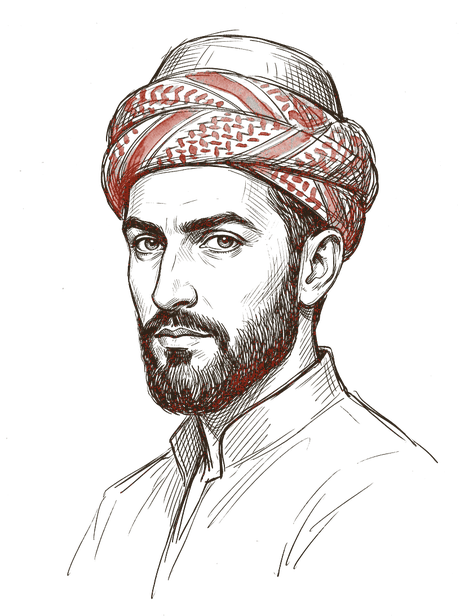
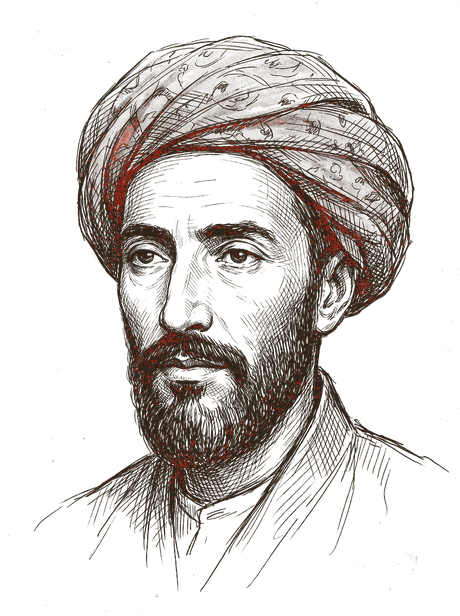
Abdul Salam II and Sheikh Ahmed redrawn from their photographs; captions turn honest

diff --git a/index.html b/index.html
@@ -4700,15 +4700,15 @@ window.__barzan = { P, TREE_STROKE, camera, controls, renderer, compMat, groundM
     // takya/centre normalised. Names and dates are displayed as he sent them; their
     // register is an open editorial flag (design/editorial-flags.md, section A).
     const SIL = [
-      ['Sheikh Taj al-Din', 'Late 18th century', 'sheikh-01-taj-al-din.png',
+      ['Sheikh Taj al-Din', 'Late 18th century', 'sheikh-01-taj-al-din.png', 'as imagined',
        'Sheikh Taj al-Din established the first takya in Barzan, transforming a small mountain village into an organized spiritual centre. His leadership laid the religious foundations of the Barzani tradition, creating the enduring institution from which the Barzan sheikhdom and later movement would emerge.'],
-      ['Sheikh Abdullah', 'Early 19th century', 'sheikh-02-abdullah.png',
+      ['Sheikh Abdullah', 'Early 19th century', 'sheikh-02-abdullah.png', 'as imagined',
        'Sheikh Abdullah became the first Barzani leader to adopt the Naqshbandi Sufi order, transforming Barzan into an organized Naqshbandi sheikhdom. His leadership established the spiritual foundations that shaped the Barzani movement and ensured the continuity of its distinctive religious tradition for future generations.'],
-      ['Sheikh Mohammed', 'Mid 19th century \u2013 1903', 'sheikh-03-mohammed.png',
+      ['Sheikh Mohammed', 'Mid 19th century \u2013 1903', 'sheikh-03-mohammed.png', 'as imagined',
        'Sheikh Mohammed transformed Barzan from a secluded Sufi lodge into a dynamic religious and social movement. By expanding its influence beyond Barzan village among marginalized rural communities, he strengthened its communal identity and prepared the foundations upon which his successors would build an increasingly influential Kurdish movement.'],
-      ['Sheikh Abdul Salam II', '1887\u20131914', 'sheikh-04-abdul-salam-ii.png',
+      ['Sheikh Abdul Salam II', '1887\u20131914', 'sheikh-04-abdul-salam-ii.png', 'drawn from a photograph',
        'Sheikh Abdul Salam II united surrounding tribes under Barzan\u2019s leadership and linked its spiritual authority with emerging Kurdish political aspirations. Advocating local reform, Kurdish-language education, and justice, he became an early Kurdish political figure before his execution by Ottoman authorities in 1914.'],
-      ['Sheikh Ahmed', '1896\u20131969', 'sheikh-05-ahmed.png',
+      ['Sheikh Ahmed', '1896\u20131969', 'sheikh-05-ahmed.png', 'drawn from a photograph',
        'Sheikh Ahmed became the final spiritual leader of the Barzan sheikhdom, preserving its religious traditions through rebellion, exile, and war. His leadership safeguarded the community\u2019s cohesion during decades of upheaval while overseeing the gradual transition from spiritual authority to modern Kurdish political leadership.'],
     ];
     const silWrap = document.createElement('div');
@@ -4717,14 +4717,14 @@ window.__barzan = { P, TREE_STROKE, camera, controls, renderer, compMat, groundM
       <div class="sil-kick">The House of Barzani</div>
       <div class="sil-title">THE SHEIKHS</div>
       <div class="sil-note">the silsila, the takya&#8217;s chain of masters</div>
-      <div class="sil-chain">` + SIL.map(([nm, dt, pf, tx], i) =>
+      <div class="sil-chain">` + SIL.map(([nm, dt, pf, cap, tx], i) =>
         `<div class="sil-k" data-i="${i}">
           <button class="sil-name">${nm}</button>
           <div class="sil-dates">${dt}</div>
           <div class="sil-bio">
             <img class="sil-port" src="assets/${pf}" loading="lazy"
-              alt="${nm}, an imagined engraved portrait in the plate's hand">
-            <div class="sil-portcap">as imagined</div>
+              alt="${nm}, engraved portrait in the plate's hand">
+            <div class="sil-portcap">${cap}</div>
             <p>${tx}</p>
           </div>
         </div>`).join('') + `</div></div>`;